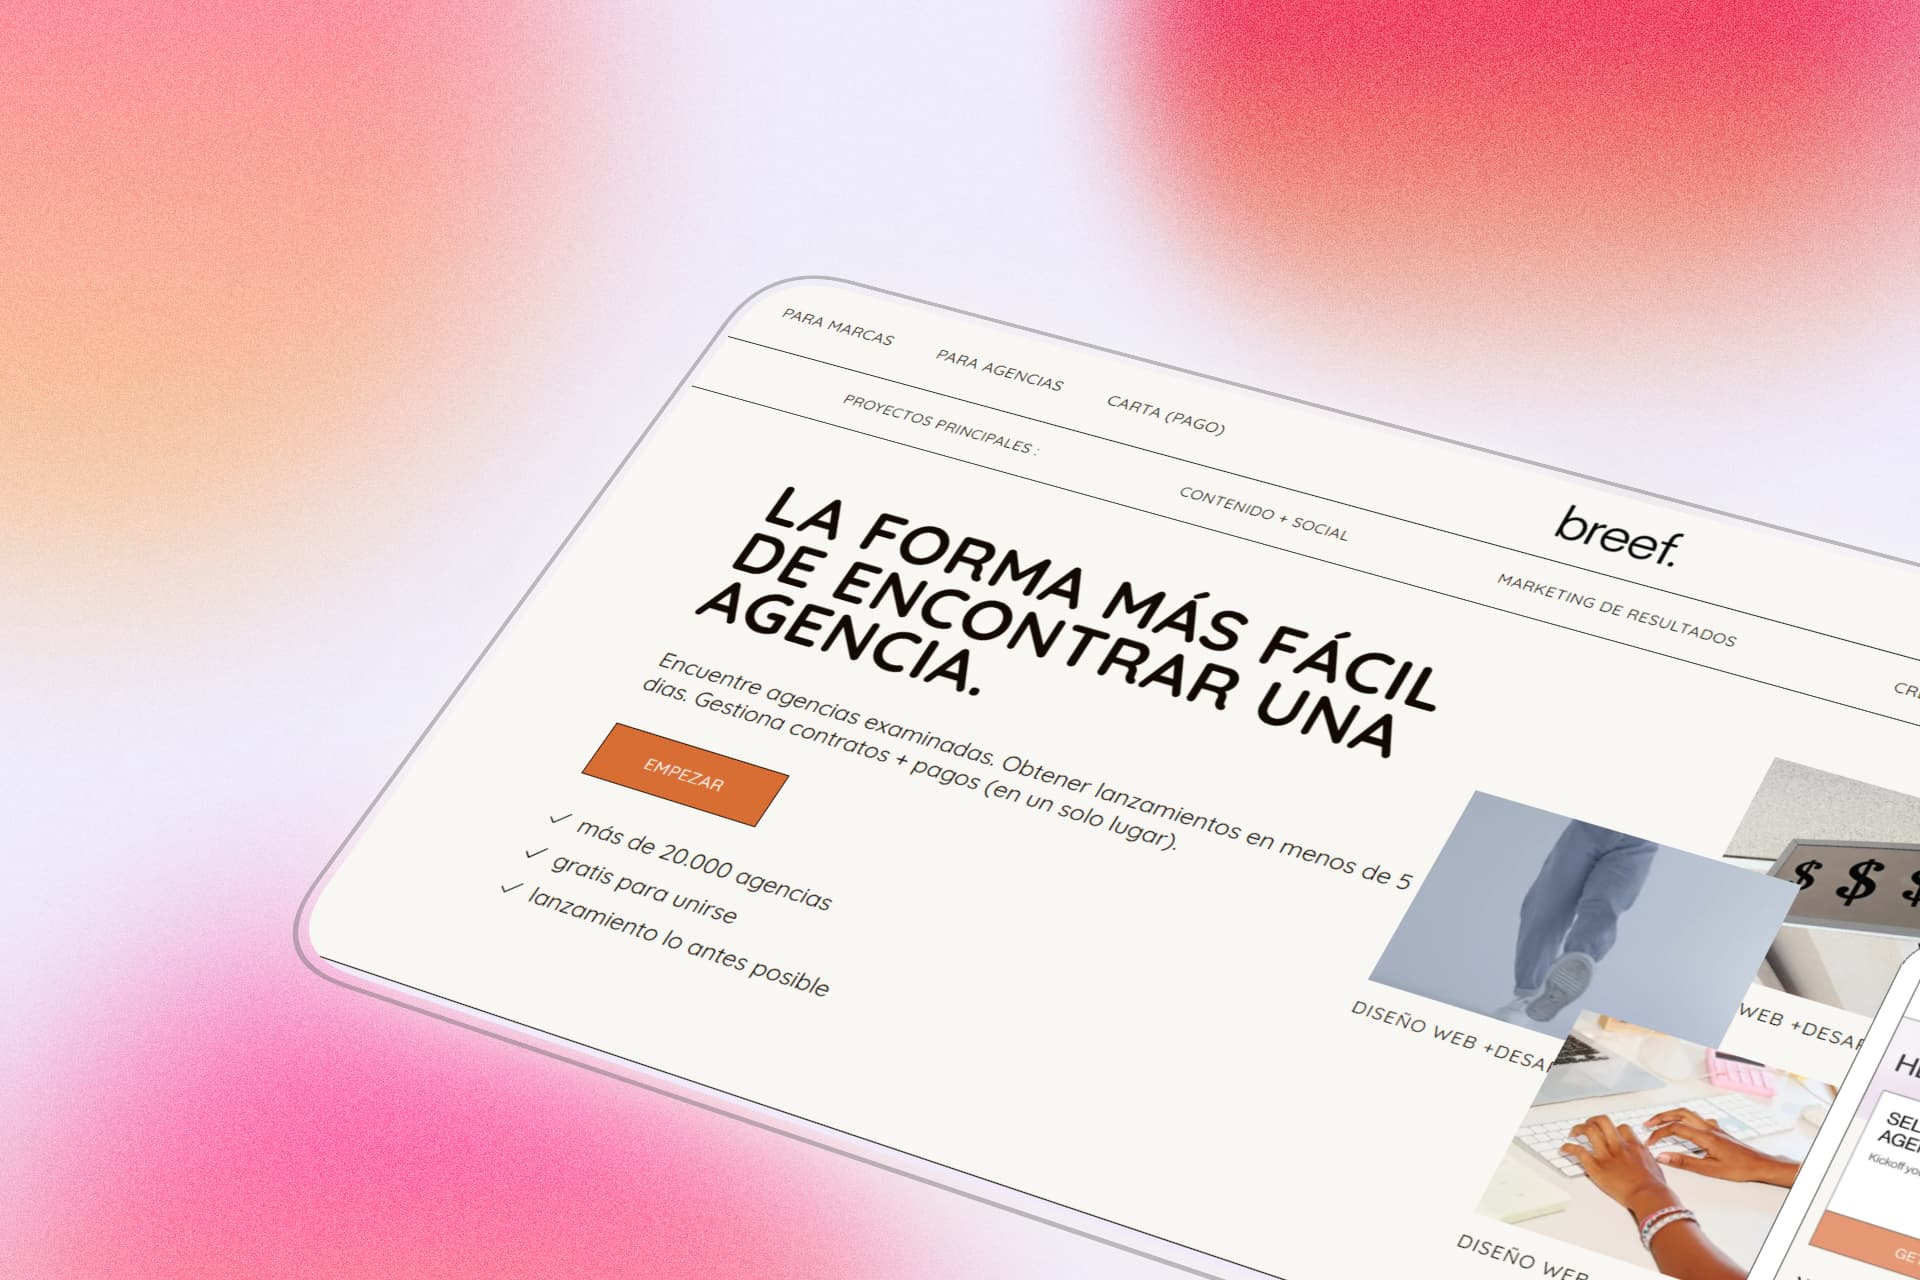
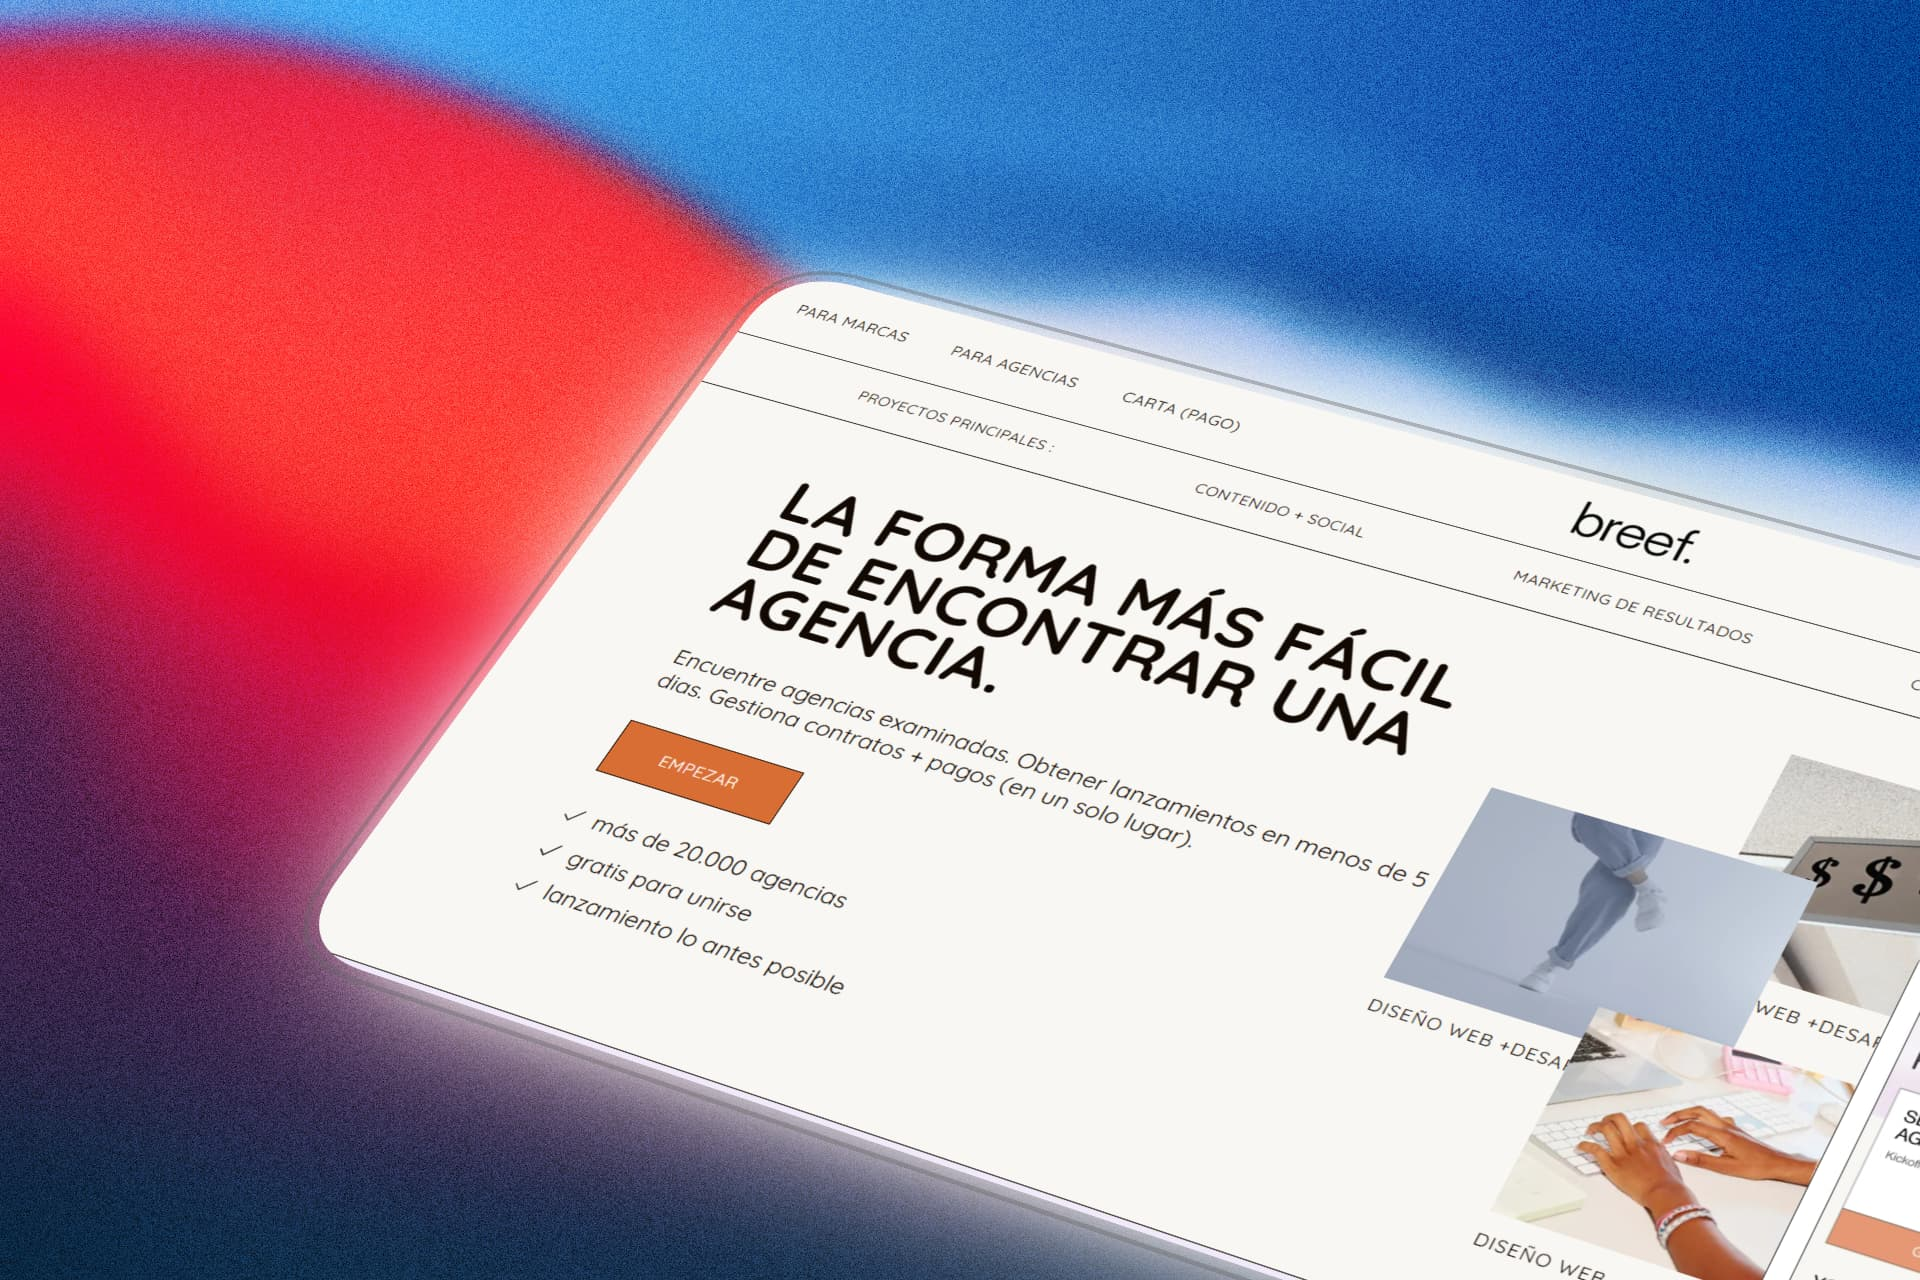
chore(assets): clean up clone project media

diff --git a/src/components/Projects.jsx b/src/components/Projects.jsx
@@ -15,7 +15,7 @@ const myProjects = [
   {
     githubHref: 'https://github.com/GenesisPixel/genesis-pixel-website',
     liveHref: 'https://genesis-pixel.vercel.app/',
-    img: '/img/projects/me/w.png',
+    img: '/img/projects/me/genesis-pixel.jpg',
     bg: '/img/projects/bg-project-mustang.webp',
     num: '#002',
     title: 'Genesis Pixel',
@@ -33,7 +33,7 @@ const myProjects = [
   {
     githubHref: 'https://github.com/sebastianvasquezechavarria1234/zenith-gpt',
     liveHref: 'https://zenith-gpt.vercel.app/',
-    img: '/img/projects/me/r.jpg',
+    img: '/img/projects/me/zenith-gpt.jpg',
     bg: '/img/projects/bg-project-breef.webp',
     num: '#004',
     title: 'Zenith GPT',
@@ -45,7 +45,7 @@ const clonedProjects = [
   {
     githubHref: 'https://github.com/sebastianvasquezechavarria1234/alfoart-clone',
     liveHref: 'https://alfoart-clone.vercel.app/',
-    img: '/img/projects/clone/alfoart-clone.jpg',
+    img: '/img/projects/clone/alfoart.jpg',
     bg: '/img/projects/bg-project-matter.webp',
     num: '#001',
     title: 'Alfoart Clone',
@@ -72,7 +72,7 @@ const clonedProjects = [
   {
     githubHref: '#',
     liveHref: '#',
-    img: '/img/projects/clone/e-2.png',
+    img: '/img/projects/clone/breef.jpg',
     bg: '/img/projects/bg-project-ginebra.webp',
     num: '#004',
     title: 'Breef Clone',
